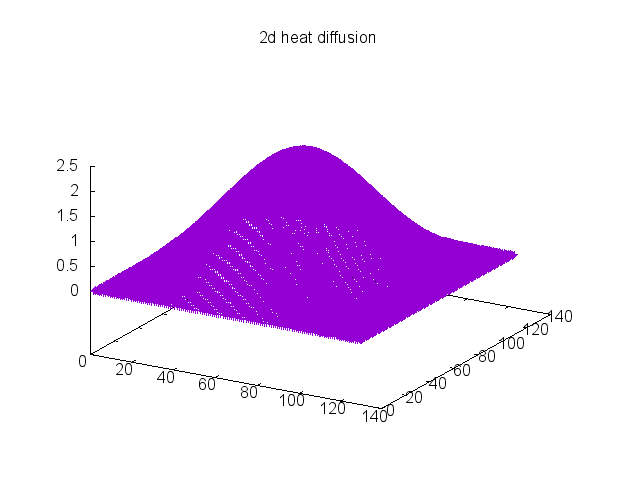
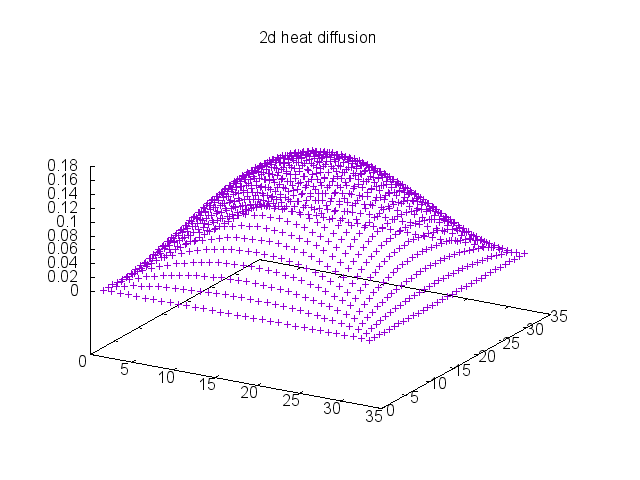
MG Done

diff --git a/hw4/MG/main.c b/hw4/MG/main.c
@@ -21,7 +21,6 @@ typedef struct _Opt_ { //Options
 void gaussian(Opt *o, double **b);
 void save_output(Opt *o, double **b);
 void noise(Opt *o, double **b);
-void bi_diagonal_prod(double C, int n, double **aux, double **dom);
 
 int main(int argc, char **argv) {
     int c;
@@ -29,15 +28,15 @@ int main(int argc, char **argv) {
     int ncycles; //for mutligrid
 
     //specify default values
-    o->n = 129;
+    o->n = 33;
     o->N = 100;
     o->dx = 1.0;
-    o->dt = 5.0;
+    o->dt = 7.0;
     o->alpha = 0.1;
     o->A = 100;
     o->sig = 5;
-    o->r = 0.0;
-    o->source = 0.000;
+    o->r = 2;
+    o->source = 0.001;
     ncycles = 1;
 
     //get command line values
@@ -60,9 +59,8 @@ int main(int argc, char **argv) {
     int n = o->n;
 
     double **dom = dmatrix(1, n, 1, n);
-    double **x = dmatrix(1,n,1,n);
-    double **b = dmatrix(1,n,1,n);
     double **aux = dmatrix(1,n,1,n);
+    double **x = dmatrix(1,n,1,n);
 
     //initialize gaussian
     gaussian(o, dom);
@@ -79,7 +77,14 @@ int main(int argc, char **argv) {
         bi_diagonal_prod(C, n,aux, dom);
 
         //solve Ax = b
-        mglin(b, n, ncycles);
+
+        //run mglin directly
+        //mglin(dom, n, ncycles); 
+
+        //run mglin to generate guess for cg
+        copy(x, dom, n); //guess goes in x
+        mglin(x, n, ncycles); //run mg
+        cg(dom, x, n); //run cg
 
         //add source and reset boundaries
         for (int i = 2; i < n; ++i)
@@ -93,9 +98,8 @@ int main(int argc, char **argv) {
 
     //free stuff
     free_dmatrix(dom, 1, n, 1, n);
-    free_dmatrix(x, 1, n, 1, n);
-    free_dmatrix(b, 1, n, 1, n);
     free_dmatrix(aux, 1, n, 1, n);
+    free_dmatrix(x, 1, n, 1, n);
     free(o);
     //return
     return 0;
@@ -176,56 +180,3 @@ void bi_diagonal_prod(double C, int n, double **aux, double **dom) {
 
 }
 
-double dotprod(int n, double **r1, double **r2) {
-    double rdot = 0;
-    for (int i = 1; i <= n; ++i)
-       for(int j = 1; j <= n; ++j) 
-            rdot += r1[i][j] * r2[i][j];
-    return rdot;
-}
-
-void linear_comb(int n, double **r1, double a, double **r2, double b, double **r3){
-    //r1 = a*r2 + b*r3
-    for (int i = 1; i <= n; ++i) 
-       for(int j = 1; j <= n; ++j) 
-          r1[i][j] = a*r2[i][j] + b*r3[i][j];
-}
-
-void cg(double **x, int n) {
-    double alpha;
-    double beta;
-    double r[n][n];
-    double p[n][n];
-    double Ap[n][n];
-    double Ax[n][n];
-    double aux[n][n];
-
-    //r = b - Ax
-    bi_diagonal_prod(-C, n, aux, x);
-    linear_comb(N, r, 1, b, -1, Ax);
-
-    //p = r
-    copy_vector(N, p, r);
-
-    double rsold, rsnew;
-    rsold = dotprod(N, r, r);
-
-    //main iterative loop of cg
-    for (int k = 0; k < N; ++k) {
-        //Ap = A*p
-        bi_diagonal_prod(-C, n, Ap, p);
-
-        double pAp = dotprod(N, p, Ap);
-        alpha = rsold / pAp;
-
-        linear_comb(N, x, 1.0, x, alpha, p);
-        linear_comb(N, r, 1.0, r, -alpha, Ap);
-
-        rsnew = dotprod(N, r, r);
-        if (rsnew < 1e-10) return;
-
-        beta = rsnew / rsold;
-        linear_comb(N, p, 1.0, r, beta, p);
-        rsold = rsnew;
-    }
-}

diff --git a/hw4/MG/cg.c b/hw4/MG/cg.c
@@ -1,4 +1,6 @@
 #include <stdlib.h>
+#include <stdio.h>
+#include "nrutil.h"
 #include "mg.h"
 
 double dotprod(int n, double **r1, double **r2) {
@@ -16,41 +18,53 @@ void linear_comb(int n, double **r1, double a, double **r2, double b, double **r
           r1[i][j] = a*r2[i][j] + b*r3[i][j];
 }
 
-void cg(double **x, int n) {
+void cg(double **b, double **x, int n) {
     double alpha;
     double beta;
-    double r[n][n];
-    double p[n][n];
-    double Ap[n][n];
-    double Ax[n][n];
-    double aux[n][n];
+    double **r = dmatrix(1,n,1,n);
+    double **p = dmatrix(1,n,1,n);
+    double **Ap = dmatrix(1,n,1,n);
+    double **Ax = dmatrix(1,n,1,n);
+    double **aux = dmatrix(1,n,1,n);
 
     //r = b - Ax
-    bi_diagonal_prod(-C, n, aux, x);
-    linear_comb(N, r, 1, b, -1, Ax);
+    copy(Ax, x, n);
+    bi_diagonal_prod(-C, n, aux, Ax); //multiplies argument by A
+    linear_comb(n, r, 1, b, -1, Ax);
 
     //p = r
-    copy_vector(N, p, r);
+    copy(p, r, n);
 
     double rsold, rsnew;
-    rsold = dotprod(N, r, r);
+    rsold = dotprod(n, r, r);
 
     //main iterative loop of cg
-    for (int k = 0; k < N; ++k) {
+    int k;
+    for (k = 0; k < n; ++k) {
         //Ap = A*p
-        bi_diagonal_prod(-C, n, Ap, p);
+        copy(Ap, p, n);
+        bi_diagonal_prod(-C, n, aux, Ap);
 
-        double pAp = dotprod(N, p, Ap);
+        double pAp = dotprod(n, p, Ap);
         alpha = rsold / pAp;
 
-        linear_comb(N, x, 1.0, x, alpha, p);
-        linear_comb(N, r, 1.0, r, -alpha, Ap);
+        linear_comb(n, x, 1.0, x, alpha, p);
+        linear_comb(n, r, 1.0, r, -alpha, Ap);
 
-        rsnew = dotprod(N, r, r);
-        if (rsnew < 1e-10) return;
+        rsnew = dotprod(n, r, r);
+        if (rsnew < 1e-10) break;
 
         beta = rsnew / rsold;
-        linear_comb(N, p, 1.0, r, beta, p);
+        linear_comb(n, p, 1.0, r, beta, p);
         rsold = rsnew;
     }
+
+    printf("%d\n", k);
+    copy(b, x, n); //copy solution into b (implicit return)
+
+    free_dmatrix(r, 1, n, 1, n);
+    free_dmatrix(p, 1, n, 1, n);
+    free_dmatrix(Ap, 1, n, 1, n);
+    free_dmatrix(Ax, 1, n, 1, n);
+    free_dmatrix(aux, 1, n, 1, n);
 }

diff --git a/hw4/MG/mg.h b/hw4/MG/mg.h
@@ -3,6 +3,7 @@
 #define NGMAX 15
 
 double C;
+void bi_diagonal_prod(double C, int n, double **aux, double **dom);
 void addint(double **uf, double **uc, double **res, int nf);
 void copy(double **aout, double **ain, int n);
 void fill0(double **u, int n);
@@ -12,3 +13,4 @@ void resid(double **res, double **u, double **rhs, int n);
 void rstrct(double **uc, double **uf, int nc);
 void slvsml(double **u, double **rhs);
 void mglin(double **u, int n, int ncycle);
+void cg(double **rhs, double **guess, int n);
